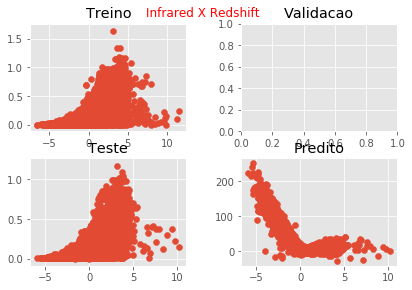
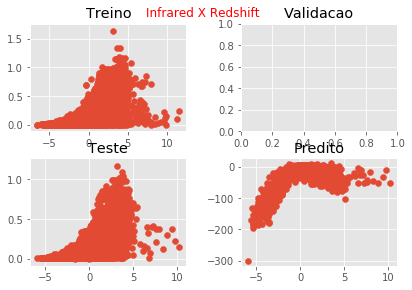
atualizando report

Changed region(s): [[0.4951, 0.5586, 0.9612, 0.931], [0.5243, 0.8379, 0.6117, 0.931]]

diff --git a/jupyter/md/annXbnn/report.md b/jupyter/md/annXbnn/report.md
@@ -8,7 +8,7 @@
 | Pura| BN|
 |     0.2776203     |     490.802 |
 | Dropout | BN Dropout|
-|         0.04186037  |      440.38028 |
+|         0.04186037  |      278.25867 |
 
 
 ## Distribuição 
@@ -147,56 +147,56 @@
 ````
 |     Real |    Predict |
 |----------+------------|
-| 0.202258 |  0.226336  |
-| 0.384286 |  0.0407948 |
-| 0.033815 |  0.20958   |
-| 0.635514 |  0.242374  |
-| 0.082844 |  0.20958   |
-| 0.077451 |  0.20958   |
-| 0.173062 | -0.236602  |
-| 0.140931 |  0.194552  |
-| 0.042802 |  0.20958   |
-| 0.080199 |  0.20958   |
-| 0.159216 |  0.140774  |
-| 0.275251 | -0.172015  |
-| 0.137887 |  0.0989313 |
-| 0.242895 |  0.20958   |
-| 0.085739 |  0.252573  |
-| 0.167368 | -0.298011  |
-| 0.049474 |  0.408853  |
-| 0.389837 | -0.0387697 |
-| 0.175565 | -0.198047  |
-| 0.12229  |  0.169598  |
-| 0.18369  |  0.0768742 |
-| 0.066047 |  0.20958   |
-| 0.101232 |  0.219214  |
-| 0.188021 |  0.301368  |
-| 0.25487  |  0.330902  |
-| 0.088456 |  0.213368  |
-| 0.135544 |  0.152632  |
-| 0.333799 |  0.0347942 |
-| 0.257815 |  0.244823  |
-| 0.066265 |  0.135679  |
-| 0.085536 |  0.0669235 |
-| 0.380118 |  0.19518   |
-| 0.14705  |  0.101114  |
-| 0.503077 |  0.20958   |
-| 0.071456 |  0.150927  |
-| 0.001909 | -0.127515  |
-| 0.146141 |  0.323427  |
-| 0.343    |  0.276113  |
-| 0.119272 |  0.20958   |
-| 0.073871 |  0.0659895 |
-| 0.334592 |  0.202289  |
-| 0.105794 |  0.101083  |
-| 0.095248 | -0.102649  |
-| 0.193394 | -0.111283  |
-| 0.047248 |  0.20958   |
-| 0.058266 |  0.374689  |
-| 0.134502 |  0.203084  |
-| 0.092814 |  0.214049  |
-| 0.115855 |  0.122807  |
-| 0.058798 |  0.218144  |
+| 0.202258 |  -1.58233  |
+| 0.384286 |  -2.61737  |
+| 0.033815 | -59.8061   |
+| 0.635514 | -51.8015   |
+| 0.082844 | -14.6071   |
+| 0.077451 |  -2.7561   |
+| 0.173062 |   2.67578  |
+| 0.140931 |   1.16939  |
+| 0.042802 | -64.6269   |
+| 0.080199 |  -3.42637  |
+| 0.159216 |   1.64097  |
+| 0.275251 |  -3.06617  |
+| 0.137887 |   1.23585  |
+| 0.242895 |  -2.55777  |
+| 0.085739 |   2.30251  |
+| 0.167368 |   1.15367  |
+| 0.049474 |   0.45185  |
+| 0.389837 |  -1.85476  |
+| 0.175565 |   3.13319  |
+| 0.12229  |  -5.28007  |
+| 0.18369  |   2.4802   |
+| 0.066047 |  -2.59154  |
+| 0.101232 |  -3.21415  |
+| 0.188021 |   1.08232  |
+| 0.25487  |  -6.93465  |
+| 0.088456 |  -0.378539 |
+| 0.135544 |  -4.90739  |
+| 0.333799 |  -8.04018  |
+| 0.257815 | -13.8384   |
+| 0.066265 |  -6.81834  |
+| 0.085536 |   1.76827  |
+| 0.380118 | -15.0813   |
+| 0.14705  |   1.64544  |
+| 0.503077 | -43.6838   |
+| 0.071456 |   0.35808  |
+| 0.001909 |  -9.823    |
+| 0.146141 |  -0.512268 |
+| 0.343    | -33.1664   |
+| 0.119272 |  -3.07563  |
+| 0.073871 |   3.40607  |
+| 0.334592 | -23.663    |
+| 0.105794 |   2.45832  |
+| 0.095248 |   3.12191  |
+| 0.193394 |   2.6869   |
+| 0.047248 | -24.8007   |
+| 0.058266 |  -5.12127  |
+| 0.134502 |   1.46114  |
+| 0.092814 |   0.114009 |
+| 0.115855 |  -7.11007  |
+| 0.058798 |  -1.17581  |
 ````
 
 #### BN Dropout
